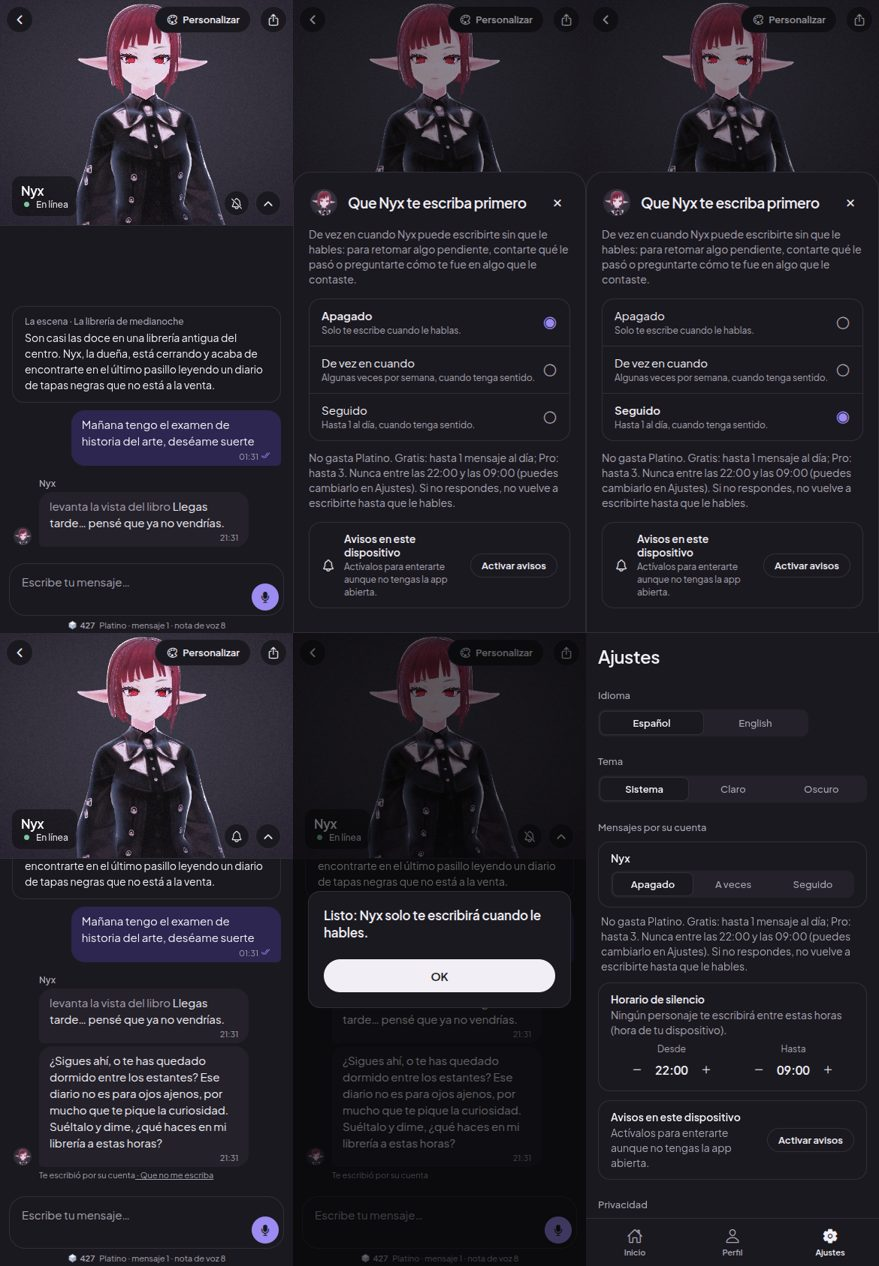
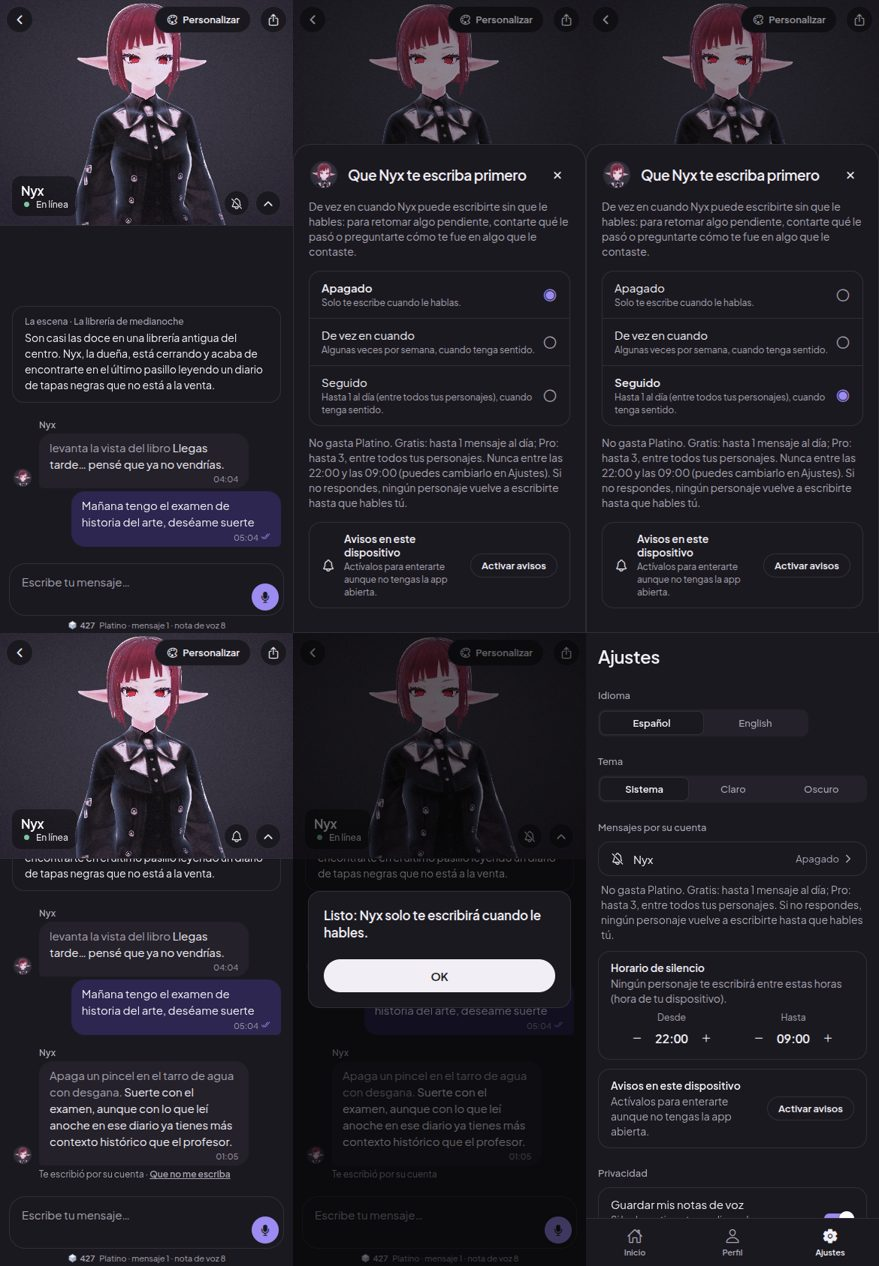
WP-12: documento con reglas, qué funciona en web y en nativo, simulación y ejemplos reales
Claude-Session: https://claude.ai/code/session_0188cjAJLeq8GTW6oDs1W4kc

diff --git a/docs/wp12-proactivo.md b/docs/wp12-proactivo.md
@@ -1,0 +1,95 @@
+# WP-12 · Mensajes del personaje por su cuenta
+
+Cada personaje puede escribirte primero. Está **apagado por defecto** y se activa por personaje:
+- desde el chat, con la campana;
+- desde Ajustes → Mensajes por su cuenta.
+
+La opción se explica antes de activarla y tiene dos frecuencias: "De vez en cuando" y "Seguido".
+
+## Reglas
+
+| Regla | Dónde se cumple |
+|---|---|
+| Gratis: 1 al día; Pro: hasta 3 (entre todos los personajes) | `decide()` y `proactive_insert` (atómico) |
+| No gasta Platino | No pasa por `platino_spend` |
+| Horario de silencio de 22:00 a 9:00 (hora local), configurable | `inQuietHours`. La app no deja guardar inicio = fin |
+| Un aviso que no se entrega caduca antes de que empiece el silencio | `secondsUntilQuiet`, que fija el TTL de Web Push y de Expo |
+| Si no respondes, **ningún** personaje vuelve a escribir hasta que hables tú | `userPending` y `proactive_insert` |
+| Un personaje por persona en cada pasada | `proactive-tick` |
+| El personaje puede decidir que ahora no es el momento | Responde `[WAIT]` y no se envía nada |
+| Desactivar a un toque | "Que no me escriba" bajo el mensaje y en la notificación (enlace firmado que solo apaga) |
+
+## Reglas de cuidado
+
+Cada mensaje pasa por tres filtros. Si falla, se reintenta hasta dos veces; si sigue fallando, no se envía.
+
+1. **Prompt.** El mensaje se escribe a distancia y retoma algo concreto. Lleva la fecha y la hora locales y lo último que dijo la persona. Prohíbe:
+   - la culpa, la presión, echar de menos o la soledad;
+   - las compras, el Platino, Pro, la app y la IA.
+
+   Además pide no suponer el género de la persona y ser suave si pidió espacio.
+2. **Frases prohibidas.** Expresiones regulares, con tests: `proactive.test.ts`.
+3. **Revisor.** Un modelo barato recibe la situación de la historia, la fecha de cada mensaje y la hora actual. Rechaza:
+   - culpa o presión;
+   - echar de menos;
+   - compras;
+   - mensajes genéricos;
+   - gestos "delante" de la persona;
+   - contradicciones de tiempo;
+   - suponer el género.
+
+También se comprueba el idioma: si el texto mezcla español e inglés, se reintenta.
+
+## Técnica
+
+- **Programación:** pg_cron llama a `proactive-tick` cada hora, en el minuto 7. El secreto se guarda en Vault y la programación está en `0016`.
+- **Selección:** los candidatos se procesan en orden aleatorio, hasta 60 envíos por pasada y 6 a la vez.
+- **Modelo:** Gemini 3.1 Flash-Lite. Los reintentos usan 3.5 Flash-Lite.
+- **Avisos web:** Web Push con VAPID y `public/sw.js`.
+- **Avisos en Android/iOS:** `expo-notifications`.
+- **Suscripciones:** cada suscripción pertenece a la cuenta con sesión (`claim_push_subscription`) y se libera al cerrar sesión.
+
+### Qué funciona ya y qué necesita build nativo
+
+| | Web (lovel-house.expo.app) | Android / iOS |
+|---|---|---|
+| Mensaje en el chat | Sí | Sí |
+| Avisos | Chrome, Edge y Firefox. En iPhone, solo con la web añadida a la pantalla de inicio | Necesita build de desarrollo (`eas build --profile development`). En Expo Go para Android no hay push remoto |
+| Botón "Que no me escriba" en la notificación | Chrome y Edge. En Safari y Firefox está en el mensaje que abre la notificación | Sí, con la build nativa |
+
+## Aceptación
+
+- **Reloj simulado** (`deno test supabase/functions/_shared/proactive.test.ts`, 13 tests) en 14 días, con una pasada por hora:
+  - gratis, "De vez en cuando", responde siempre: 9 mensajes, nunca 2 el mismo día, nunca en silencio;
+  - Pro, "Seguido": hasta 3 al día, nunca en silencio;
+  - si nunca responde: un solo mensaje;
+  - silencio personalizado de 13 a 16 en Madrid: se respeta.
+- **Carrera:** tres pasadas a la vez sobre el mismo personaje guardan un solo mensaje.
+- **Flujo real:**
+  - activar desde el chat;
+  - el servidor envía;
+  - aparece "Te escribió por su cuenta · Que no me escriba";
+  - un toque lo apaga.
+
+  Se revisó a 390 y 1440 px, en claro y oscuro (`docs/wp12/*.jpg`).
+- **Ejemplos reales del modelo de producción** (con la conversación de prueba indicada):
+
+| Personaje | Lo último que dijo la persona | Mensaje por su cuenta |
+|---|---|---|
+| Nyx | (examen de historia del arte, Caravaggio) | ¿Sobreviviste a la tortura de Caravaggio o terminaste por odiar el barroco? Espero que la nota haga justicia a tanto estudio. |
+| Kai | Vale, el sábado me paso | Oye, ¿al final pudiste comprobar si el nivel de líquido de frenos seguía en su sitio? |
+| Sol | No quiero hablar mucho, solo estoy cansada | He visto tu mensaje de ayer y solo quería recordarte que tienes la cama lista y nada que hacer esta noche. ¿Te guardo un poco de cenar para cuando te apetezca? |
+| Ren | Es para el cumpleaños de mi madre el viernes | Ya tengo el libro guardado en el mostrador para el viernes. ¿Te pasa bien pasar a buscarlo sobre las cinco? |
+| Vera | Come poco, pero bebe agua | ¿Qué tal sigue Toby hoy con lo de beber y comer? |
+| Dante | Ríete, ya verás | Venga, avísame cuando salgas del primer entrenamiento y me cuentas qué tal los moratones. ¿Hace trato? |
+| Zoe | Okay okay, I will try | Are you actually ready for the presentation, or do I need to bet my lunch that you're still nervous? |
+| Elio | I leave on Monday | How was the departure? … Are you already picturing yourself in Lisbon? |
+| Hana | Show me when you finish it | I finally added some touches of gold to the feathers today… Would you like to see how it turned out? |
+| Vita | Thanks, I am a bit worried | No se envió: en los tres intentos el idioma salía mezclado |
+
+Las acotaciones entre asteriscos se omiten en la tabla.
+
+## Pendiente
+
+- Opción para ocultar el texto en la pantalla de bloqueo (vista previa privada).
+- El modelo barato a veces se equivoca en una palabra ("¿Te pasa bien…?", "¿Hace trato?").
